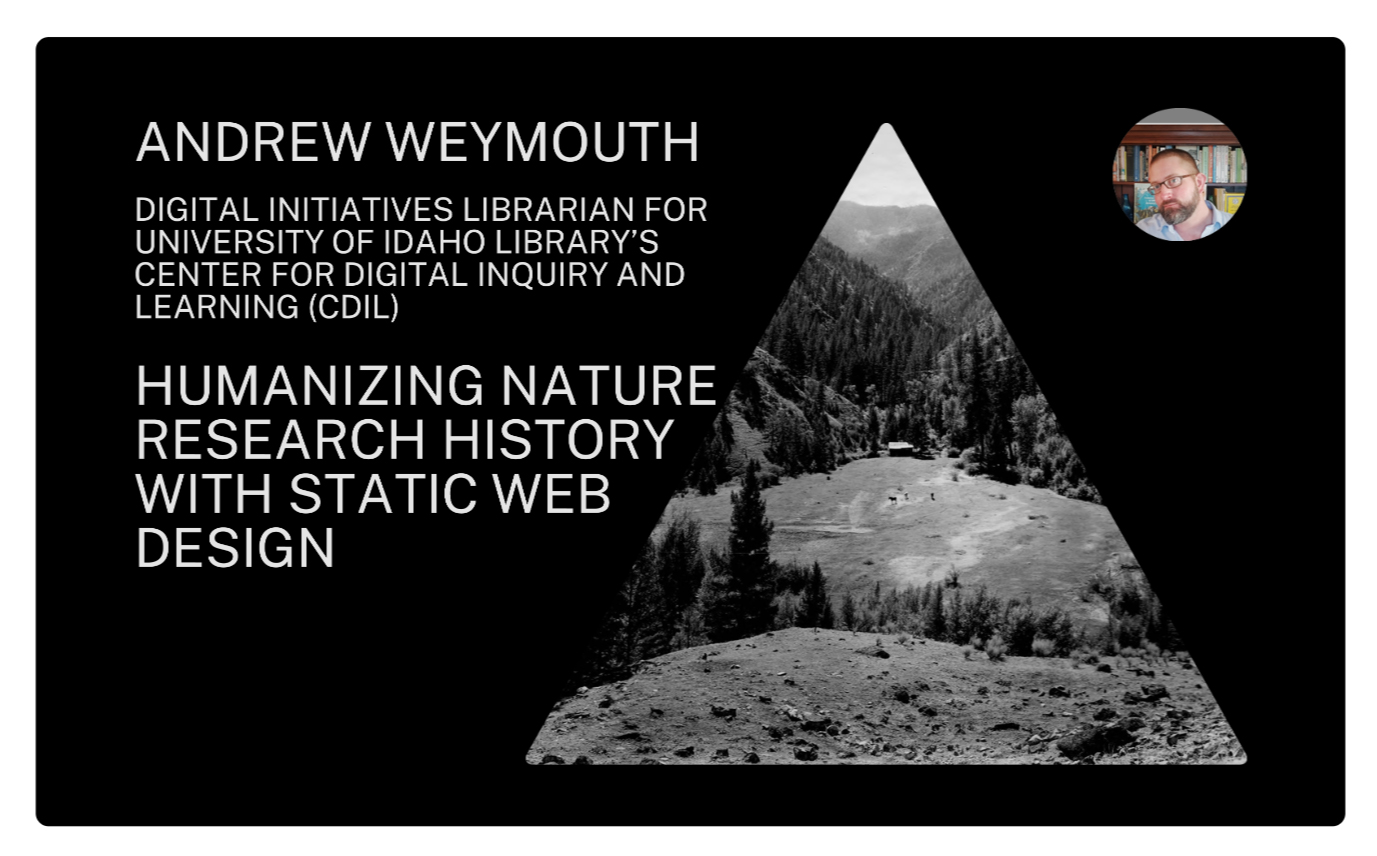
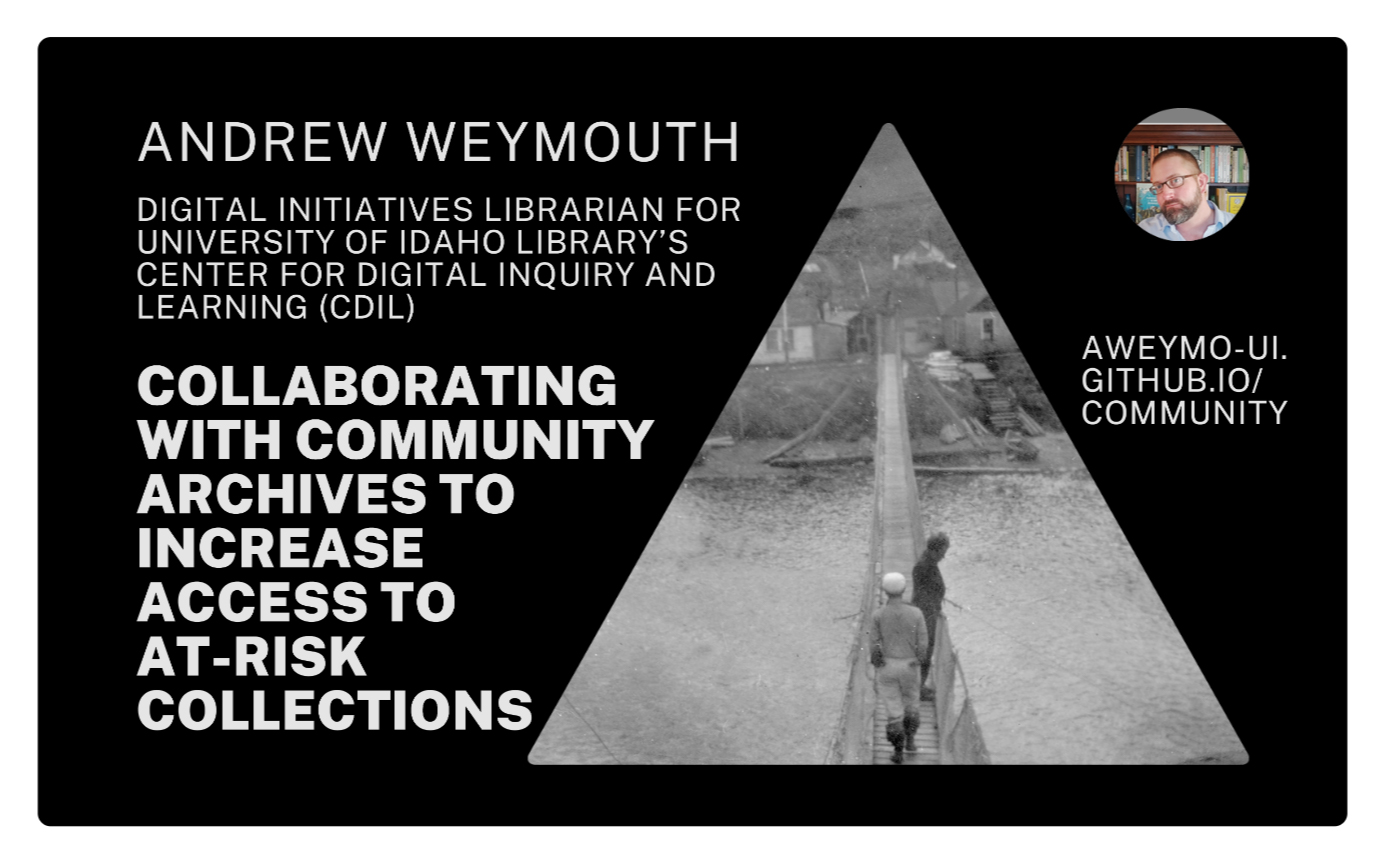
first steps

diff --git a/content/1_intro.md b/content/1_intro.md
@@ -1,0 +1,29 @@
+---
+title: Introduction
+nav: Intro
+---
+
+**Hello, my name is Andrew Weymouth** and I have worked with the University of Idaho Library as the [Digital Initiatives Librarian](https://www.lib.uidaho.edu/about/people/aweymouth.html) in the [Center for Digital Inquiry](https://cdil.lib.uidaho.edu/) and Learning (CDIL) department since the fall of 2023. My work generally consists of creating and maintaining our digital collections, working with CDIL fellows, helping to rethink processes and introducing new digital scholarship tools to the department
+
+-------------
+
+## Alaskeros
+
+**In the summer of 2023**, I was given the opportunity to write an article for an organization named [Maritime Washington](https://maritimewa.org/who-we-are/) on Filipino migratory laborers who travel between mainland America and the salmon canneries of Alaska, known as _Alaskeros_. Maritime Washington is facilitated by the Washington Trust for Historic Preservation and committed to 
+<br>
+
+#### “sharing diverse stories and increasing visibility of Washington’s maritime past and present… and preserving our region’s unique maritime identity, resources, and lifeways.” 
+
+<br>
+I was introduced to Maritime Washington through my previous position as the Digital Media Editor for Washington state digital encyclopedia [HistoryLink](http://historylink.com/) and brought independent experience writing and creating digital scholarship projects about labor, underrepresented communities and surveying equity in special collections.
+
+-------------
+
+## Presentation Goals
+
+The goal of the article was to write a non-academic history of the Alaskeros, and salmon canneries in Washington State more generally, using resources from the [Filipino American National Historical Society](http://fanhs-national.org/filam/), a non-profit community archive that has been active since 1982. 
+
+**In this discussion**, I’d like to explore how librarians and archivists can engage and promote the work of community archives, being mindful that ‘best practices’ are not universal and how academic judgments have deeper implications when exploring a community archives as an outsider. In addition, I’ll detail some techniques I used to research community archive materials that lack traditional metadata.
+
+
+

diff --git a/index.md b/index.md
@@ -3,11 +3,11 @@ title: Home
 layout: page
 ---
 
-{% include figure.html img="banner.jpg" alt="title card with a photo of the author and a black and white landscape photo" caption="Presentation for UCLA Library's Captivity: Assembling Nature’s Histories, March 2024" %}
+{% include figure.html img="banner.jpg" alt="title card with a photo of the author and a black and white photograph of two men on a rope bridge" caption="Presentation for Northwest Archivists 2024 conference" %}
 
-* [slides](https://indd.adobe.com/view/ceb21830-684e-43f7-bc07-621586bac8db)
+* [slides](https://indd.adobe.com/view/a84ba9f4-08af-4be3-a4cb-574283a32525)
 
-* [test site with functioning elements](https://thecdil.github.io/taylor-archive)
+* [resulting article](https://maritimewa.org/story/through-a-filipino-lens-washington-state-cannery-workers-in-alaska/)
 
 {% include toc.html %}
 
